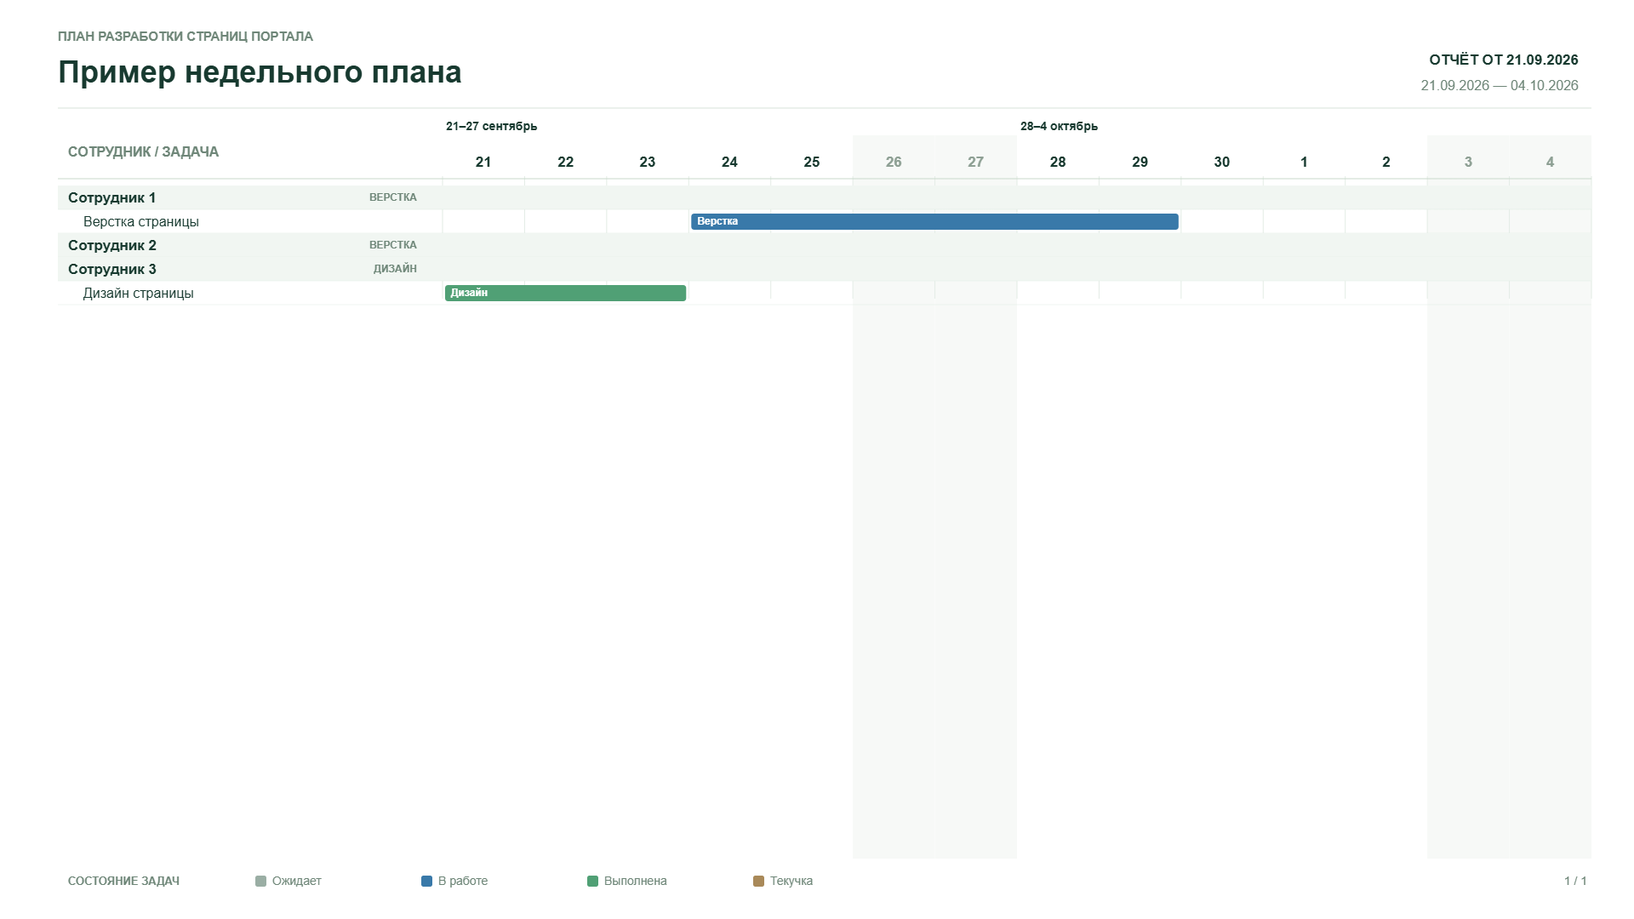
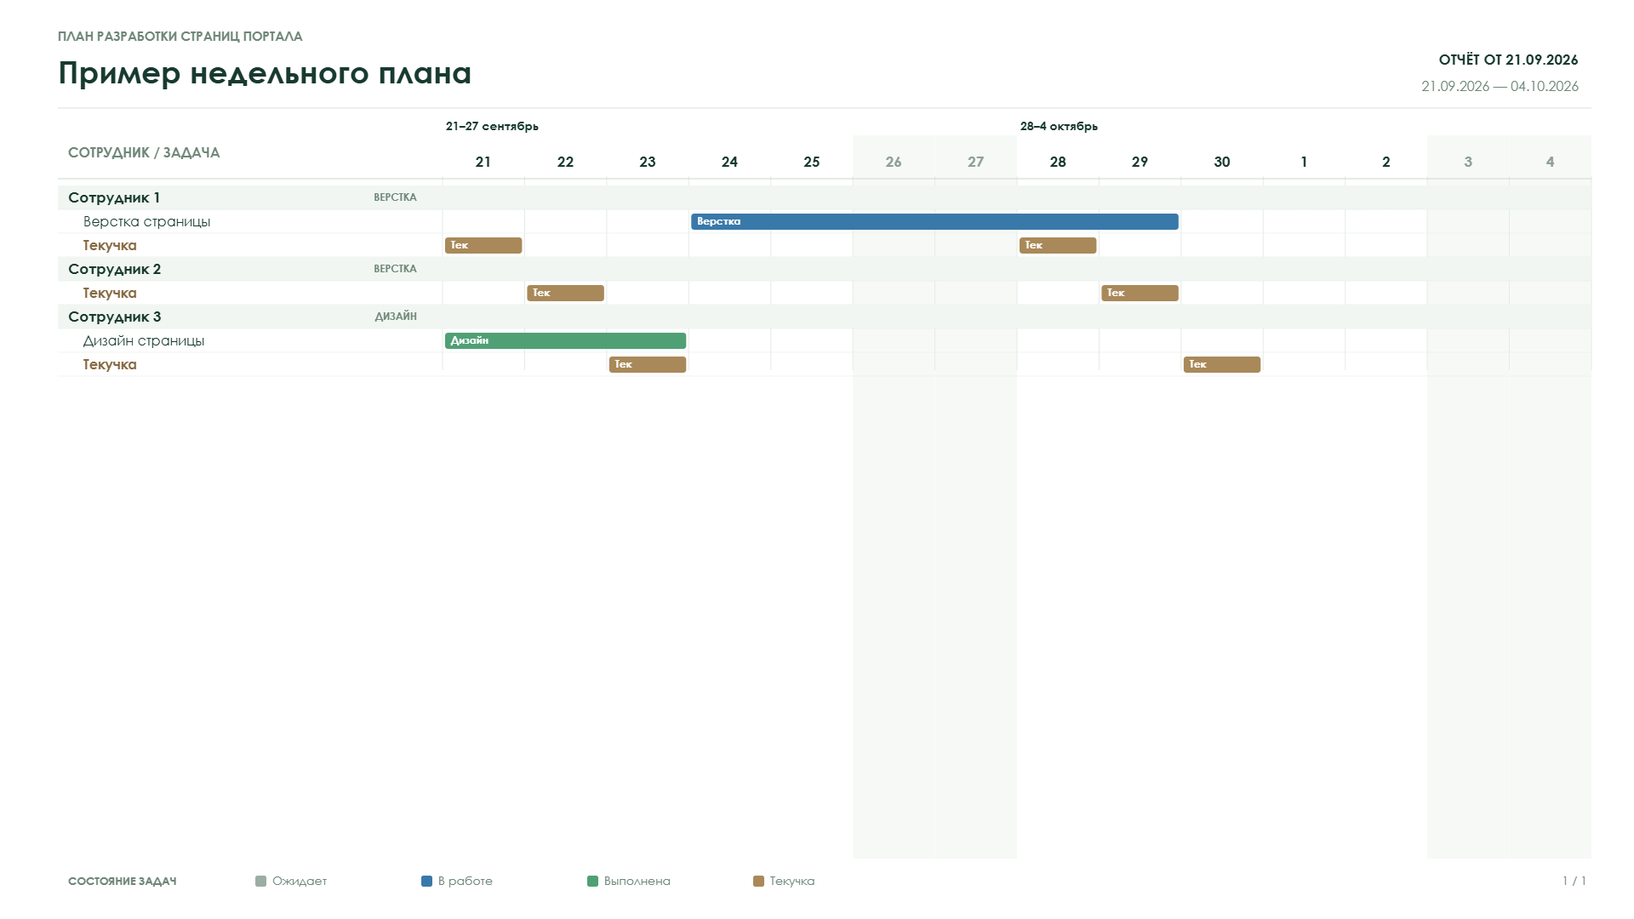
Use Century Gothic and group weekly routine on one row

diff --git a/src/ui/GanttGrid.tsx b/src/ui/GanttGrid.tsx
@@ -8,6 +8,7 @@ export interface GanttGridProps {
   employees: Employee[];
   onOpenTask(task: Task): void;
   onAddTask?(employeeId: string): void;
+  onAddRoutine?(employeeId: string): void;
   onMoveTask?(task: Task, deltaDays: number): void;
   onResizeTask?(task: Task, edge: 'start' | 'end', deltaDays: number): void;
 }
@@ -19,7 +20,7 @@ function dateLabel(day: string): string {
   return weekday.format(parseDay(day)).replace('.', '');
 }
 
-export function GanttGrid({ plan, employees, onOpenTask, onAddTask, onMoveTask, onResizeTask }: GanttGridProps) {
+export function GanttGrid({ plan, employees, onOpenTask, onAddTask, onAddRoutine, onMoveTask, onResizeTask }: GanttGridProps) {
   const days = useMemo(() => enumerateDays(plan.rangeStart, plan.rangeEnd), [plan.rangeStart, plan.rangeEnd]);
   const rows = useMemo(() => buildVisibleRows(plan, employees), [plan, employees]);
   const container = useRef<HTMLDivElement>(null);
@@ -64,12 +65,27 @@ export function GanttGrid({ plan, employees, onOpenTask, onAddTask, onMoveTask, 
   }, []);
   const today = localToday();
 
+  function bar(task: Task) {
+    const geometry = getBarGeometry(task, plan.rangeStart, plan.rangeEnd, dayWidth);
+    if (!geometry) return null;
+    return <button key={task.id} className={`task-bar status-${task.status} ${task.routine ? 'is-routine' : ''}`}
+      style={{ left: geometry.left + 3, width: Math.max(geometry.width - 6, 12) }}
+      title={`${task.title} · ${task.startDay}—${task.endDay}`}
+      onPointerDown={event => { dragRef.current = { task, x: event.clientX, mode: (event.target as HTMLElement).dataset.edge as 'start' | 'end' || 'move' }; event.currentTarget.setPointerCapture(event.pointerId); }}
+      onPointerUp={endDrag}
+      onClick={() => { if (skipClick.current) { skipClick.current = false; return; } onOpenTask(task); }}>
+      <span className="resize-handle start" data-edge="start" />
+      <span>{task.shortLabel || task.title}</span>
+      <span className="resize-handle end" data-edge="end" />
+    </button>;
+  }
+
   return (
     <div className="gantt-shell" ref={container}>
       <div className="gantt-scroll" aria-label="График задач">
         <div className="gantt-content" style={{ width: tableWidth, ['--label-width' as string]: `${labelWidth}px`, ['--day-width' as string]: `${dayWidth}px` }}>
           <div className="gantt-week-row">
-            <div className="gantt-corner">КОМАНДА И ЗАДАЧИ <span>{rows.filter(row => row.kind === 'task').length}</span></div>
+            <div className="gantt-corner">КОМАНДА И ЗАДАЧИ <span>{plan.tasks.filter(task => task.startDay && task.endDay).length}</span></div>
             {weeks.map(week => (
               <div key={week.monday} className="gantt-week" style={{ width: week.count * dayWidth }}>
                 {Number(week.first.slice(-2))}–{Number(week.last.slice(-2))} {month.format(parseDay(week.last))}
@@ -86,30 +102,21 @@ export function GanttGrid({ plan, employees, onOpenTask, onAddTask, onMoveTask, 
           </div>
           {rows.map(row => {
             const employeeRow = row.kind === 'employee';
-            const geometry = employeeRow ? null : getBarGeometry(row.task, plan.rangeStart, plan.rangeEnd, dayWidth);
             return (
-              <div key={row.key} className={`gantt-row ${employeeRow ? 'is-employee' : 'is-task'}`} style={{ height: lineHeight }}>
+              <div key={row.key} className={`gantt-row ${employeeRow ? 'is-employee' : row.kind === 'routine' ? 'is-task routine-row' : 'is-task'}`} style={{ height: lineHeight }}>
                 <div className="gantt-row-label" style={{ width: labelWidth }}>
                   {employeeRow ? (
                     <><span className="employee-dot" /><strong>{row.employee.name}</strong><small>{row.employee.role}</small><button className="employee-add" title={`Добавить задачу: ${row.employee.name}`} onClick={() => onAddTask?.(row.employee.id)}>+</button></>
+                  ) : row.kind === 'routine' ? (
+                    <><span className="task-indent" /><span className="routine-label">Текучка</span><button className="employee-add" title={`Добавить текучку: ${row.employee.name}`} aria-label={`Добавить текучку: ${row.employee.name}`} onClick={() => onAddRoutine?.(row.employee.id)}>+</button></>
                   ) : (
                     <><span className="task-indent" /><button title={row.task.title} onClick={() => onOpenTask(row.task)}>{row.task.title}</button>{row.task.linkedTaskId && <span className="link-mark" title="Связанная задача">↗</span>}</>
                   )}
                 </div>
                 <div className="gantt-row-days" style={{ width: days.length * dayWidth }}>
                   {days.map(day => <span key={day} className={`${[0, 6].includes(parseDay(day).getUTCDay()) ? 'weekend' : ''} ${day === today ? 'today' : ''}`} style={{ width: dayWidth }} />)}
-                  {!employeeRow && geometry && (
-                    <button className={`task-bar status-${row.task.status} ${row.task.routine ? 'is-routine' : ''}`}
-                      style={{ left: geometry.left + 3, width: Math.max(geometry.width - 6, 12) }}
-                      title={`${row.task.title} · ${row.task.startDay}—${row.task.endDay}`}
-                      onPointerDown={event => { dragRef.current = { task: row.task, x: event.clientX, mode: (event.target as HTMLElement).dataset.edge as 'start' | 'end' || 'move' }; event.currentTarget.setPointerCapture(event.pointerId); }}
-                      onPointerUp={endDrag}
-                      onClick={() => { if (skipClick.current) { skipClick.current = false; return; } onOpenTask(row.task); }}>
-                      <span className="resize-handle start" data-edge="start" />
-                      <span>{row.task.shortLabel || row.task.title}</span>
-                      <span className="resize-handle end" data-edge="end" />
-                    </button>
-                  )}
+                  {row.kind === 'task' && bar(row.task)}
+                  {row.kind === 'routine' && row.tasks.map(bar)}
                 </div>
               </div>
             );

diff --git a/src/export/scene.ts b/src/export/scene.ts
@@ -15,7 +15,8 @@ export interface ExportScene {
   dayWidth: number;
 }
 
-type Row = { kind: 'employee'; employee: Employee } | { kind: 'task'; employee: Employee; task: Task };
+type Row = { kind: 'employee'; employee: Employee } | { kind: 'task'; employee: Employee; task: Task } |
+  { kind: 'routine'; employee: Employee; tasks: Task[] };
 const WIDTH = 1920;
 const HEIGHT = 1080;
 const LEFT = 520;
@@ -44,9 +45,12 @@ function rowsFor(plan: Plan, employees: Employee[], start: Day, end: Day): Row[]
   return [...employees].sort((a, b) => a.order - b.order).flatMap(employee => {
     const tasks = plan.tasks.filter(task => task.employeeId === employee.id && task.startDay && task.endDay &&
       task.endDay >= start && task.startDay <= end).sort((a, b) => a.order - b.order);
+    const routine = tasks.filter(task => task.routine).sort((a, b) =>
+      a.startDay!.localeCompare(b.startDay!) || a.order - b.order);
     return [
       { kind: 'employee' as const, employee },
-      ...tasks.map(task => ({ kind: 'task' as const, employee, task })),
+      ...tasks.filter(task => !task.routine).map(task => ({ kind: 'task' as const, employee, task })),
+      ...(routine.length ? [{ kind: 'routine' as const, employee, tasks: routine }] : []),
     ];
   });
 }
@@ -59,7 +63,7 @@ function pagesForRows(rows: Row[]): Row[][] {
       pages.push(current);
       current = [];
     }
-    if (current.length === 0 && row.kind === 'task') current.push({ kind: 'employee', employee: row.employee });
+    if (current.length === 0 && row.kind !== 'employee') current.push({ kind: 'employee', employee: row.employee });
     current.push(row);
   }
   if (current.length) pages.push(current);
@@ -102,22 +106,28 @@ function drawPage(plan: Plan, rows: Row[], start: Day, end: Day, page: number, t
   items.push({ type: 'line', x: RIGHT, y: 207, w: 0, h: rows.length * ROW_HEIGHT + 4, color: colors.grid, lineWidth: 1 });
   items.push({ type: 'line', x: 68, y: 210, w: 1802, h: 0, color: 'CADBCD', lineWidth: 1 });
 
+  function drawTask(task: Task, y: number) {
+    taskIds.push(task.id);
+    const visibleStart = task.startDay! < start ? start : task.startDay!;
+    const visibleEnd = task.endDay! > end ? end : task.endDay!;
+    const x = LEFT + daysBetween(start, visibleStart) * dayWidth + 3;
+    const width = daysInclusive(visibleStart, visibleEnd) * dayWidth - 6;
+    rect(items, x, y + 5, width, 19, statusColor(task), 'task-bar', task.id, 4);
+    if (width >= 45) tx(items, task.shortLabel || task.title, x + 7, y + 7, width - 14, 15, 12, colors.white, true, 'left', 'bar-label', task.id);
+  }
+
   rows.forEach((row, index) => {
     const y = CONTENT_TOP + index * ROW_HEIGHT;
     if (row.kind === 'employee') {
       rect(items, 68, y, 1802, ROW_HEIGHT, colors.pale);
       tx(items, row.employee.name, 80, y + 4, 330, 22, 17, colors.ink, true);
       tx(items, row.employee.role.toUpperCase(), 370, y + 5, 120, 20, 12, colors.muted, true, 'right');
+    } else if (row.kind === 'task') {
+      tx(items, row.task.title, 98, y + 5, 398, 21, 16, colors.ink, false, 'left', 'task-title', row.task.id);
+      drawTask(row.task, y);
     } else {
-      const task = row.task;
-      taskIds.push(task.id);
-      tx(items, task.title, 98, y + 5, 398, 21, 16, colors.ink, false, 'left', 'task-title', task.id);
-      const visibleStart = task.startDay! < start ? start : task.startDay!;
-      const visibleEnd = task.endDay! > end ? end : task.endDay!;
-      const x = LEFT + daysBetween(start, visibleStart) * dayWidth + 3;
-      const width = daysInclusive(visibleStart, visibleEnd) * dayWidth - 6;
-      rect(items, x, y + 5, width, 19, statusColor(task), 'task-bar', task.id, 4);
-      if (width >= 45) tx(items, task.shortLabel || task.title, x + 7, y + 7, width - 14, 15, 12, colors.white, true, 'left', 'bar-label', task.id);
+      tx(items, 'Текучка', 98, y + 5, 398, 21, 16, '866941', true, 'left', 'task-title');
+      row.tasks.forEach(task => drawTask(task, y));
     }
     items.push({ type: 'line', x: 68, y: y + ROW_HEIGHT, w: 1802, h: 0, color: colors.grid, lineWidth: .6 });
   });

diff --git a/src/ui/App.tsx b/src/ui/App.tsx
@@ -25,13 +25,15 @@ export function App() {
   const [editedTask, setEditedTask] = useState<Task | undefined>();
   const [newTaskEmployee, setNewTaskEmployee] = useState<string>();
   const [newBacklog, setNewBacklog] = useState(false);
+  const [newRoutine, setNewRoutine] = useState(false);
   const [notice, setNotice] = useState('');
 
-  function showTask(task?: Task, employeeId?: string, backlog = false) {
+  function showTask(task?: Task, employeeId?: string, backlog = false, routine = false) {
     setPanel(null);
     setEditedTask(task);
     setNewTaskEmployee(employeeId);
     setNewBacklog(backlog);
+    setNewRoutine(routine);
     setEditorOpen(true);
   }
 
@@ -86,6 +88,7 @@ export function App() {
           </div>
           <GanttGrid plan={plan} employees={project.employees} onOpenTask={task => showTask(task)}
             onAddTask={employeeId => showTask(undefined, employeeId)}
+            onAddRoutine={employeeId => showTask(undefined, employeeId, false, true)}
             onMoveTask={(task, deltaDays) => tryAct({ type: 'moveTask', planId: plan.id, taskId: task.id, deltaDays })}
             onResizeTask={(task, edge, deltaDays) => tryAct({ type: 'resizeTask', planId: plan.id, taskId: task.id, edge, deltaDays })} />
         </>
@@ -101,8 +104,8 @@ export function App() {
 
       {copyOpen && plan && <PlanCopyDialog source={plan} onClose={() => setCopyOpen(false)} onCreate={(reportDay, rangeStart, rangeEnd) => { act({ type: 'copyPlan', sourceId: plan.id, reportDay, rangeStart, rangeEnd }); setCopyOpen(false); }} />}
       {exportOpen && project && plan && <ExportDialog plan={plan} employees={project.employees} onClose={() => setExportOpen(false)} onExport={exportScenes} />}
-      {editorOpen && project && plan && <TaskEditor key={editedTask?.id ?? `new-${newTaskEmployee}-${newBacklog}`} task={editedTask} employeeId={newTaskEmployee}
-        employees={project.employees} tasks={plan.tasks} defaultDay={plan.rangeStart} initialBacklog={newBacklog}
+      {editorOpen && project && plan && <TaskEditor key={editedTask?.id ?? `new-${newTaskEmployee}-${newBacklog}-${newRoutine}`} task={editedTask} employeeId={newTaskEmployee}
+        employees={project.employees} tasks={plan.tasks} defaultDay={plan.rangeStart} initialBacklog={newBacklog} initialRoutine={newRoutine}
         onClose={() => setEditorOpen(false)} onSave={task => { act({ type: 'saveTask', planId: plan.id, task }); setEditorOpen(false); }}
         onDelete={taskId => { act({ type: 'deleteTask', planId: plan.id, taskId }); setEditorOpen(false); }}
         onReorder={(taskId, direction) => tryAct({ type: 'reorderTask', planId: plan.id, taskId, direction })} />}

diff --git a/src/ui/styles.css b/src/ui/styles.css
@@ -1,4 +1,4 @@
-:root { font-family: Helvetica, Arial, sans-serif; color: #172c28; background: #edf2ef; font-synthesis: none; }
+:root { font-family: 'Century Gothic', Arial, sans-serif; color: #172c28; background: #edf2ef; font-synthesis: none; }
 * { box-sizing: border-box; }
 body { margin: 0; }
 button, input, select { font: inherit; }
@@ -58,6 +58,7 @@ button { cursor: pointer; }
 .is-employee .gantt-row-label { background: #f2f6f2; }.employee-dot { width: 7px; height: 7px; margin-right: 10px; background: #3f8365; border-radius: 50%; }
 .gantt-row-label strong { font-size: 12px; letter-spacing: .015em; font-weight: 750; }.gantt-row-label small { margin-left: auto; color: #7d9485; font-size: 10px; font-weight: 650; text-transform: uppercase; letter-spacing: .09em; }
 .task-indent { width: 17px; flex: none; }.gantt-row-label button { min-width: 0; padding: 0; overflow: hidden; white-space: nowrap; text-overflow: ellipsis; text-align: left; border: 0; background: transparent; color: #405a50; font-size: 12px; }.gantt-row-label button:hover { color: #126547; text-decoration: underline; }
+.routine-label { color: #866941; font-size: 12px; font-weight: 700; }.routine-row .employee-add { margin-left: auto; }
 .link-mark { margin-left: 6px; color: #7e9d90; }.gantt-row-days { display: flex; position: relative; flex: none; }.gantt-row-days > span { flex: none; height: 100%; border-right: 1px solid #edf1ed; }.gantt-row-days > span.weekend { background: #f7f9f7; }.gantt-row-days > span.today { background: #fff9ed; }.is-employee .gantt-row-days > span { background: #f2f6f2; border-right-color: #e6eee7; }
 .task-bar { position: absolute; top: 4px; bottom: 4px; display: flex; align-items: center; min-width: 12px; padding: 0 7px; overflow: hidden; border: 0; border-radius: 5px; color: white; text-align: left; box-shadow: 0 2px 5px #1b3d3a1c; }.task-bar span { overflow: hidden; white-space: nowrap; text-overflow: ellipsis; font-size: 10px; font-weight: 700; }
 .task-bar.status-waiting { background: #9aaba5; }.task-bar.status-active { background: #3979a9; }.task-bar.status-done { background: #50a075; }.task-bar.is-routine { background: #a98959; }.task-bar:hover { filter: brightness(.91); z-index: 2; }

diff --git a/src/ui/TaskEditor.tsx b/src/ui/TaskEditor.tsx
@@ -8,17 +8,18 @@ interface Props {
   tasks: Task[];
   defaultDay: string;
   initialBacklog?: boolean;
+  initialRoutine?: boolean;
   onClose(): void;
   onSave(task: Task): void;
   onDelete?(taskId: string): void;
   onReorder?(taskId: string, direction: -1 | 1): void;
 }
 
-export function TaskEditor({ task, employeeId, employees, tasks, defaultDay, initialBacklog = false, onClose, onSave, onDelete, onReorder }: Props) {
+export function TaskEditor({ task, employeeId, employees, tasks, defaultDay, initialBacklog = false, initialRoutine = false, onClose, onSave, onDelete, onReorder }: Props) {
   const [draft, setDraft] = useState<Task>(() => task ?? {
-    id: crypto.randomUUID(), title: '', shortLabel: '', employeeId: employeeId ?? employees[0]?.id ?? '',
+    id: crypto.randomUUID(), title: initialRoutine ? 'Текучка' : '', shortLabel: initialRoutine ? 'Тек' : '', employeeId: employeeId ?? employees[0]?.id ?? '',
     startDay: initialBacklog ? null : defaultDay, endDay: initialBacklog ? null : defaultDay, status: 'waiting', linkedTaskId: null,
-    routine: false, order: Math.max(-1, ...tasks.filter(item => item.employeeId === employeeId).map(item => item.order)) + 1,
+    routine: initialRoutine, order: Math.max(-1, ...tasks.filter(item => item.employeeId === employeeId).map(item => item.order)) + 1,
   });
   const [error, setError] = useState('');
   const backlog = draft.startDay === null;

diff --git a/src/ui/ganttGeometry.ts b/src/ui/ganttGeometry.ts
@@ -3,15 +3,19 @@ import type { Day, Employee, Plan, Task } from '../domain/types';
 
 export type VisibleRow =
   | { key: string; kind: 'employee'; employee: Employee }
-  | { key: string; kind: 'task'; employee: Employee; task: Task };
+  | { key: string; kind: 'task'; employee: Employee; task: Task }
+  | { key: string; kind: 'routine'; employee: Employee; tasks: Task[] };
 
 export function buildVisibleRows(plan: Plan, employees: Employee[]): VisibleRow[] {
   return [...employees].sort((a, b) => a.order - b.order).flatMap(employee => {
     const tasks = plan.tasks.filter(task => task.employeeId === employee.id && task.startDay && task.endDay)
       .sort((a, b) => a.order - b.order || a.title.localeCompare(b.title, 'ru'));
+    const routine = tasks.filter(task => task.routine).sort((a, b) =>
+      a.startDay!.localeCompare(b.startDay!) || a.order - b.order);
     return [
       { key: `employee:${employee.id}`, kind: 'employee' as const, employee },
-      ...tasks.map(task => ({ key: `task:${task.id}`, kind: 'task' as const, employee, task })),
+      ...tasks.filter(task => !task.routine).map(task => ({ key: `task:${task.id}`, kind: 'task' as const, employee, task })),
+      ...(routine.length ? [{ key: `routine:${employee.id}`, kind: 'routine' as const, employee, tasks: routine }] : []),
     ];
   });
 }

diff --git a/tests/ganttGeometry.test.ts b/tests/ganttGeometry.test.ts
@@ -31,6 +31,15 @@ describe('Gantt geometry', () => {
     expect(rows.map(row => row.key)).toEqual(['employee:e1', 'task:t1', 'task:t2']);
   });
 
+  it('shows weekly routine reservations on one row per employee', () => {
+    const first = { ...task, id: 'r1', title: 'Текучка', routine: true, startDay: '2026-09-14', endDay: '2026-09-14' };
+    const second = { ...first, id: 'r2', startDay: '2026-09-21', endDay: '2026-09-21', order: 2 };
+    const rows = buildVisibleRows({ ...plan, tasks: [task, first, second] }, [employee]);
+    expect(rows.map(row => row.key)).toEqual(['employee:e1', 'task:t1', 'routine:e1']);
+    const routine = rows.find(row => row.kind === 'routine');
+    expect(routine?.kind === 'routine' && routine.tasks.map(item => item.id)).toEqual(['r1', 'r2']);
+  });
+
   it('fits a typical plan without making rows unreadable', () => {
     expect(rowHeight(820, 27)).toBeGreaterThanOrEqual(26);
     expect(rowHeight(820, 27) * 27 + 76).toBeLessThanOrEqual(820);

diff --git a/tests/exportScene.test.ts b/tests/exportScene.test.ts
@@ -37,4 +37,16 @@ describe('shared export layout', () => {
     expect(bar?.x).toBeGreaterThan(scene.timelineLeft);
     expect(bar?.w).toBeCloseTo(scene.dayWidth - 6, 1);
   });
+
+  it('exports routine for separate weeks as bars on one line', () => {
+    const first = { ...base.tasks[0], id: 'r1', title: 'Текучка', routine: true,
+      startDay: '2026-09-14', endDay: '2026-09-14' };
+    const second = { ...first, id: 'r2', startDay: '2026-09-21', endDay: '2026-09-21' };
+    const scene = buildExportScenes({ ...base, tasks: [first, second] }, demoProject.employees, range)[0];
+    const bars = scene.items.filter(item => item.role === 'task-bar');
+    expect(bars).toHaveLength(2);
+    expect(bars[0].y).toBe(bars[1].y);
+    expect(bars[0].x).toBeLessThan(bars[1].x);
+    expect(scene.items.filter(item => item.role === 'task-title')).toHaveLength(1);
+  });
 });

diff --git a/src/export/png.ts b/src/export/png.ts
@@ -25,7 +25,7 @@ export async function drawScene(canvas: HTMLCanvasElement, scene: ExportScene): 
       context.stroke();
     } else {
       context.fillStyle = `#${item.color}`;
-      context.font = `${item.bold ? '700' : '400'} ${item.fontSize}px Helvetica, Arial, sans-serif`;
+      context.font = `${item.bold ? '700' : '400'} ${item.fontSize}px "Century Gothic", Arial, sans-serif`;
       context.textAlign = item.align ?? 'left';
       const x = item.align === 'center' ? item.x + item.w / 2 : item.align === 'right' ? item.x + item.w : item.x;
       let shown = item.text;

diff --git a/tests/exportFiles.test.ts b/tests/exportFiles.test.ts
@@ -18,7 +18,7 @@ describe('PowerPoint export', () => {
       const slide = await zip.file('ppt/slides/slide1.xml')?.async('string');
       expect(slide).toContain('<p:sp>');
       expect(slide).toContain('Нематериальная мотивация');
-      expect(slide).toContain('typeface="Helvetica"');
+      expect(slide).toContain('typeface="Century Gothic"');
       expect(slide).not.toContain('<p:pic>');
     } finally {
       await rm(folder, { recursive: true, force: true });

diff --git a/src/export/pptx.ts b/src/export/pptx.ts
@@ -30,7 +30,7 @@ export async function writePptx(scenes: ExportScene[], file: string): Promise<vo
         });
       } else {
         slide.addText(item.text, {
-          x, y, w, h, margin: 0, fontFace: 'Helvetica', fontSize: item.fontSize * .75,
+          x, y, w, h, margin: 0, fontFace: 'Century Gothic', fontSize: item.fontSize * .75,
           bold: item.bold ?? false, color: item.color, align: item.align ?? 'left',
           breakLine: false, valign: 'middle',
         });

diff --git a/README.md b/README.md
@@ -17,7 +17,7 @@
 - Кнопка **+ Задача** и знак `+` у имени сотрудника открывают редактор. Полосы задач перетаскиваются по целым дням; края полос меняют дату начала и окончания.
 - В поле состояния доступны «Ожидает», «В работе» и «Выполнена». Две задачи одного сотрудника могут занимать один и тот же день.
 - Задачу без дат можно оставить в **Очереди**. В редакторе при необходимости укажите связанную задачу.
-- «Текучка» автоматически добавляется при создании плана на каждую неделю для каждого сотрудника. Её можно переместить, изменить или удалить.
+- «Текучка» автоматически добавляется на каждую неделю и показывается одной строкой у каждого сотрудника. Кнопка `+` в этой строке добавляет ещё один отрезок; каждый отрезок можно переместить, изменить или удалить отдельно.
 - **История** хранит завершённые правки. Восстановление прежней версии создаёт новую запись и сохраняет возможность вернуться к более позднему состоянию.
 
 ## Экспорт
